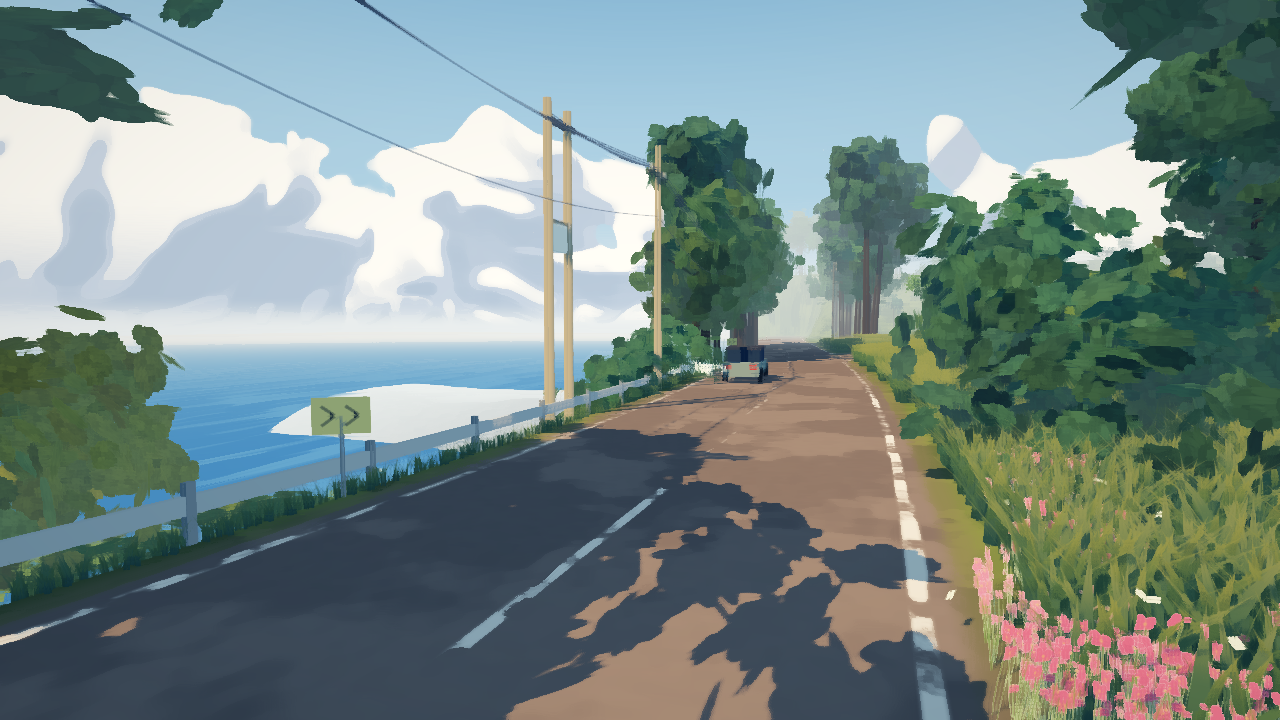
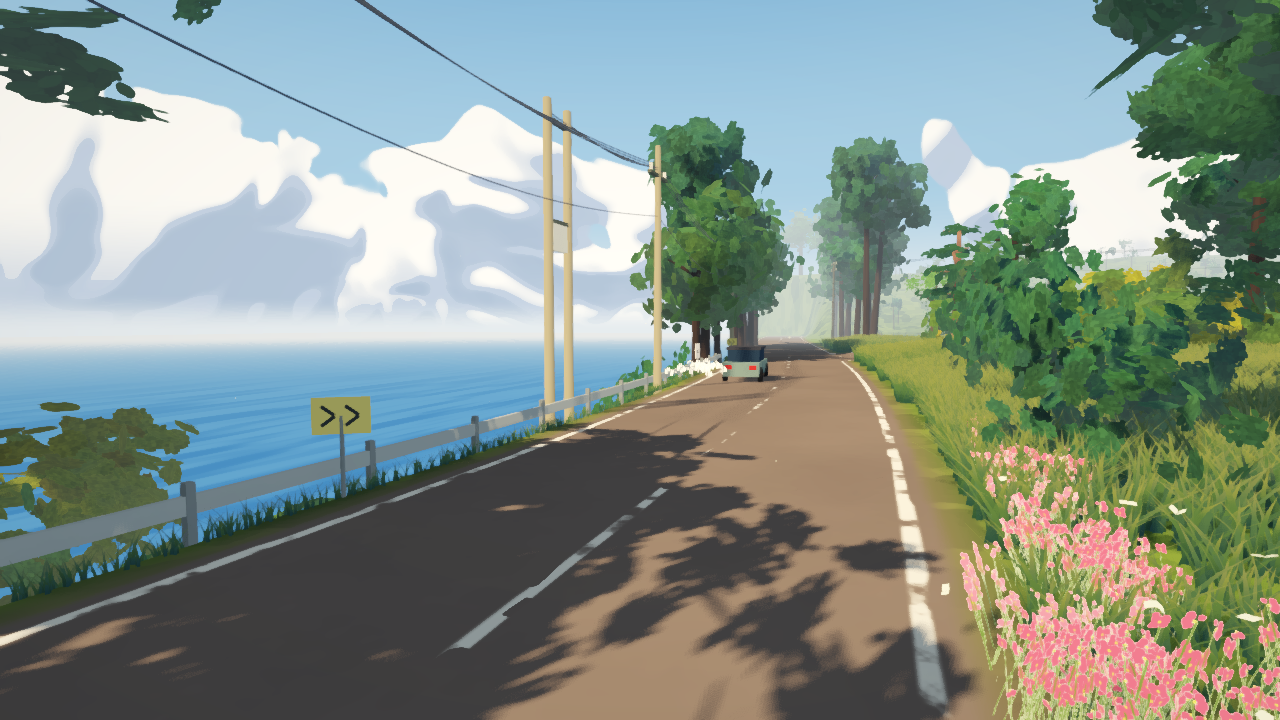
Polish Cozy Sora summer lighting, planting, and surfaces

diff --git a/games/cozysora/shared/README.md b/games/cozysora/shared/README.md
@@ -5,7 +5,7 @@ Map generators compose these components. Layout coordinates, placement exclusion
 | Component | Owns | Existing differences supplied by callers |
 | --- | --- | --- |
 | `primitives.gd` | Box, sphere and cylinder meshes; mesh instances; beams | Dimensions, tessellation, transforms and materials; Harbor batches unit meshes while Seabreeze builds then merges props |
-| `collision.gd` | Box and triangle-mesh collision shapes | Existing static or animatable body, shape size and rotation; independent prop bodies where needed |
+| `collision.gd` | Box, capsule-limb and triangle-mesh collision shapes | Existing static or animatable body, shape size and rotation; independent prop bodies where needed |
 | `mesh_batches.gd` | Stable spatial grouping, local instance transforms, draw distance and shadow batches; static mesh merging | Seabreeze foliage uses 24 m cells, architecture 32 m; Harbor primitives use 40 m cells and grass 32 m; separate draw/shadow distances remain explicit |
 | `solid_materials.gd` | Per-owner toon material cache | Palette colors remain with the owning map or character; mutable materials are not global singletons |
 | `leaf_painter.gd` | Bounded image rasterization for rounded and pointed leaf silhouettes | Profile, center, dimensions, orientation, shade and outline; distributions and random draws remain map-owned |
@@ -21,6 +21,8 @@ Cache signatures include sorted paths and contents for generation sources (`gd`,
 
 ## Change map content
 
-Edit that map's generator or profile. Both maps intentionally retain different terrain algorithms, plant shapes, grass topology, texture recipes and building styles. Harbor's shader-based building finishes and Seabreeze's image-based finishes are different artistic systems; forcing them into a shared material would change the result. Vehicles, buildings, parks, paddies, shrine, railway and route animation likewise remain local and use common construction mechanisms.
+Summer lighting, two blended shadow cascades, restrained contact occlusion and the painterly post effect live in `atmosphere.gd` and the map profiles. Medium PCF filtering and FXAA keep broad pavement shadows smooth without temporal accumulation or contact-distance dithering. Keep the depth bias high enough to avoid self-shadow interference between thin paving and terrain; tune normal bias per map before changing material patterns. `surface_noise.gdshaderinc` supplies continuous, derivative-filtered variation and integrated paving joints, retaining detail near the camera without distant shimmer. Foliage normals use the normal matrix so stretched instances keep their intended crown lighting. `CozyCollision.limb` aligns capsule support with tapered or bent wooden segments.
+
+Edit that map's generator or profile. The maps intentionally retain different terrain algorithms, plant shapes, grass topology, texture recipes and building styles. Harbor's shader-based building finishes and Seabreeze's image-based finishes are different artistic systems; forcing them into a shared material would change the result. Vehicles, buildings, parks, paddies, shrine, railway and route animation likewise remain local and use common construction mechanisms.
 
 Common movement, camera, input, synthesized character/ambient audio and UI remain in `scripts/`. The `CozyMap` interface supplies ground queries, ambience, flight bounds and the opt-in surface-traversal policy. Add a clear capability there only when common gameplay actually needs it; do not branch on map names in the player.

diff --git a/games/cozysora/README.md b/games/cozysora/README.md
@@ -57,7 +57,11 @@ godot --path games/cozysora -- --shot --view=coast --capture=/tmp/coast.png --qu
 godot --path games/cozysora -- --shot --capture-dir=/tmp/cozy-sora-views --quit-after-capture
 ```
 
-`--shot` hides shared UI. Available Seabreeze Village views: `coast`, `paddy`, `farm`, `rail`, `village`, `alley`, `vending`, `viaduct`, `shrine`, `top`. Omitting `--view` uses the normal cat camera. `--gull` chooses the seagull for a direct map launch. `--capture=/tmp/landing.png` without a map or shot option captures the selector. `--touch` enables touch controls for a native pointer walkthrough. `--profile` reports frame rate, lifecycle state, and live player / camera / audio / orphan counts on transitions.
+`--shot` hides shared UI. Available Seabreeze Village views: `coast`, `paddy`, `farm`, `rail`, `village`, `alley`, `vending`, `viaduct`, `shrine`, `top`. Omitting `--view` uses the normal cat camera. `--gull` chooses the seagull for a direct map launch. `--capture=/tmp/landing.png` without a map or shot option captures the selector. `--touch` enables touch controls for a native pointer walkthrough.
+
+`--pose=x,z,height_offset,yaw,pitch` stages a repeatable position through the normal character camera and ground-height contract. Angles are radians; `--gull` adds its usual 3 m takeoff clearance. This is useful for paired gameplay captures and focused native traversal without editing the registered spawn. For example, `--map=daan_gardens --shot --pose=-6,-44,.05,2.39,.09 --capture=/tmp/pond-cat.png --quit-after-capture` shows the pond from the cat camera.
+
+`--profile` reports lifecycle counts, player positions, wall-clock frame-time median/p95/max, physics time and viewport render CPU/GPU timing. Statistics reset on session transitions. GPU timing may be unavailable on the active driver (reported as zero); it does not mean zero GPU cost. Use normal play without capture options for performance observations, since image readback and PNG saving interrupt rendering. The global 60 FPS cap remains active for play and captures. Session diagnostics print the effective cap and VSync mode.
 
 Verification uses runtime rendering, native interaction, and code review. No automated tests are included.
 
